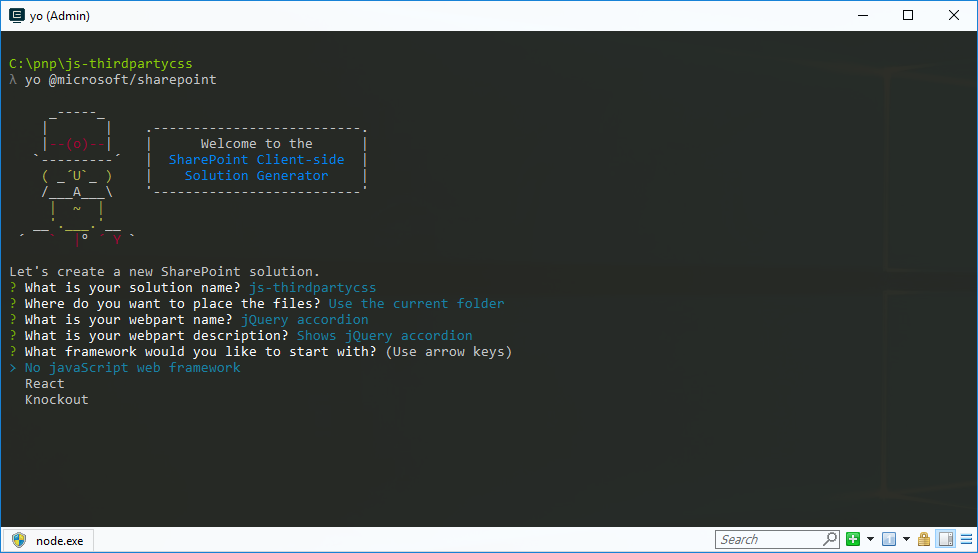
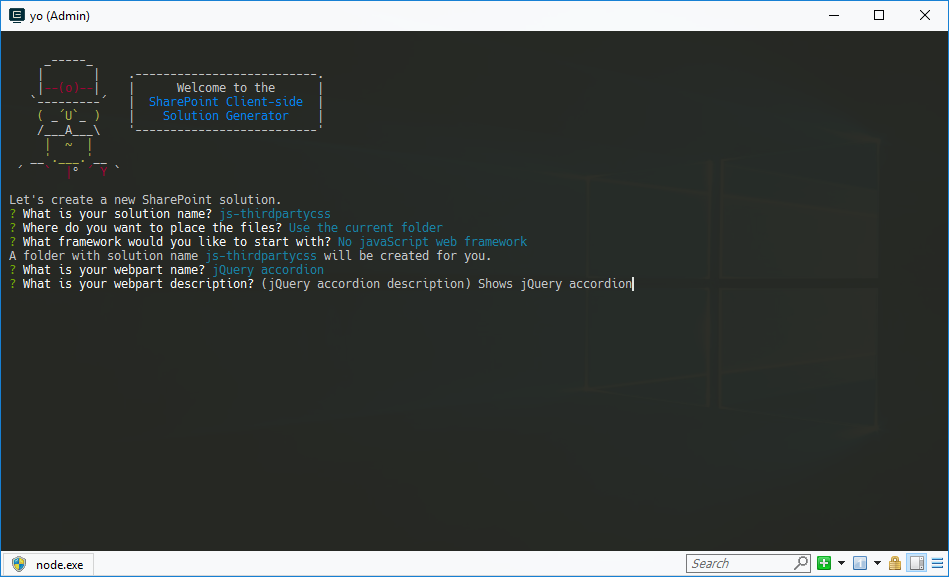
Updated third party CSS tutorial to GA

diff --git a/docs/spfx/web-parts/guidance/reference-third-party-css-styles.md b/docs/spfx/web-parts/guidance/reference-third-party-css-styles.md
@@ -1,7 +1,5 @@
 # Reference third-party CSS styles in SharePoint Framework web parts
 
-> Note. This article has not yet been verified with SPFx GA version, so you might have challenges on making this work as such with the latest release.
-
 There are many third-party libraries that you can leverage to build rich SharePoint Framework client-side web parts. In addition to scripts, these libraries often contain additional assets such as stylesheets. This article shows two different approaches to include third-party CSS styles in web parts and how each approach affects the resulting web part bundle. The example web part discussed in this article uses jQuery and jQuery UI to display an accordion.
 
 ![jQuery UI accordion rendered by a SharePoint Framework client-side web part](../../../../images/thirdpartycss-accordion-styled.png)
@@ -34,9 +32,9 @@ When prompted, enter the following values:
 
 - **js-thirdpartycss** as your solution name
 - **Use the current folder** for the location to place the files
+- **no javaScript web framework** as the starting point to build the web part
 - **jQuery accordion** as your web part name
 - **Shows jQuery accordion** as your web part description
-- **no javaScript web framework** as the starting point to build the web part
 
 ![The SharePoint Framework Yeoman generator with the default choices](../../../../images/thirdpartycss-yeoman.png)
 
@@ -176,7 +174,7 @@ The accordion should be displayed correctly and branded using the standard jQuer
 
 The easiest way to use third-party libraries and their resources is by including them in the generated web part bundle. In this approach Webpack will automatically resolve all dependencies between the different libraries and will ensure that all scripts are loaded in the correct order. The downside of this approach is that all referenced resources are loaded separately with every web part. So if you have multiple web parts in your project, all using jQuery UI, each web part will load its own copy of jQuery UI and slow down the page.
 
-To see the impact of the libraries on the size of the generated web part bundle, after bundling the project open the **./dist/js-thirdpartycss.stats.html** file in the web browser. Move your mouse over the chart and you will see, for example, that the jQuery UI CSS files referenced by the web part make up over 6% of the total web part bundle size.
+To see the impact of the libraries on the size of the generated web part bundle, after bundling the project open the **./temp/stats/js-thirdpartycss.stats.html** file in the web browser. Move your mouse over the chart and you will see, for example, that the jQuery UI CSS files referenced by the web part make up over 6% of the total web part bundle size.
 
 ![jQuery UI CSS highlighted in the chart illustrating the size of the different pieces of the generated web part bundle](../../../../images/thirdpartycss-jquery-ui-css-size.png)
 
@@ -289,4 +287,4 @@ The accordion should be displayed correctly and branded using the standard jQuer
 
 ### Analyze the contents of the generated web part bundle loading resources from URL
 
-After building the project in the web browser open the **./dist/js-thirdpartycss.stats.html** file. Notice how the overall bundle is significantly smaller (19KB compared to over 300KB when including jQuery and jQuery UI in the bundle) and how jQuery and jQuery UI are not listed in the chart since they are loaded at runtime.
+After building the project in the web browser open the **./temp/stats/js-thirdpartycss.stats.html** file. Notice how the overall bundle is significantly smaller (7KB compared to over 300KB when including jQuery and jQuery UI in the bundle) and how jQuery and jQuery UI are not listed in the chart since they are loaded at runtime.
